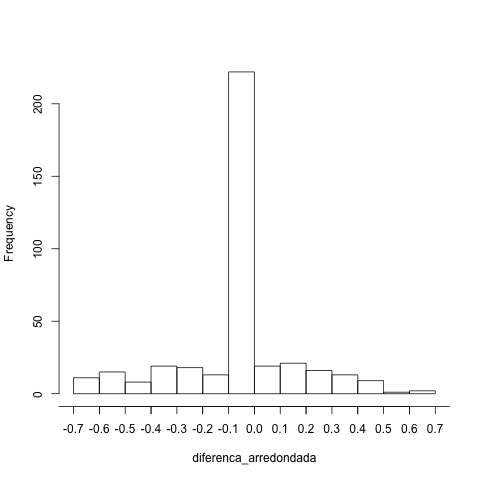
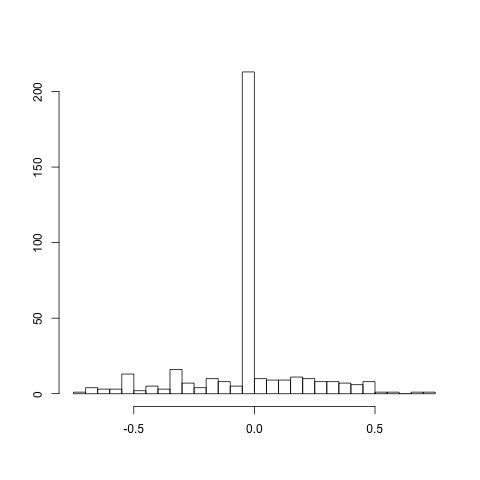
melhorando os graficos, fazendo pular de 0.1 em 0.1

diff --git a/paper/sig-alternate.tex b/paper/sig-alternate.tex
@@ -95,7 +95,7 @@ conclusions and plans for future work.
 \section{Code Coverage}
 \label{sec-code-coverage}
 
-% TODO: tentei mostrar estudos relacionados aqiu, mas acho que poderia ter vendido melhor
+% Gustavo: tentei mostrar estudos relacionados aqiu, mas acho que poderia ter vendido melhor
 Code coverage measures the degree to which production code is tested by a test suite. 
 When a unit test exercises a piece of code, developers say that such piece
 of code is covered. Many studies argue that code coverage is an important
@@ -188,15 +188,17 @@ public double calculateTaxes(double hasIncrement) {
 }
 \end{lstlisting}
 
-% Todo: Why at the class level? 
-As we are interested in code coverage at the class level, 
-we conceived our heuristic as follows (Equation 1): for a certain class $C$ with methods $m_1, ..., m_n$, 
+% Gustavo: gostou da explicacao?
+Code coverage can be calculated on different levels, such as method level, class level, or even
+system level. As this work is part of a full research, in there, we are interested in code coverage at the class level.
+Because of that, we conceived our heuristic as follows (Equation \ref{formula-doida}): 
+for a certain class $C$ with methods $m_1, ..., m_n$, 
 the code coverage of C is the ratio of the number of unit tests in the suite that test a certain method from C and 
 the sum of McCabe's number from each method inside C.
 
-% TODO: Veja se entendi e escrevi certo:
 \begin{equation}
-Coverage(C) = \frac{|\bigcup_{i=1}^{n}UnitTestsFor(m_i)|}{\sum_{i=1}^{n}{CiclomaticComplexity(m_i)}}
+\label{formula-doida}
+Cov(C) = min(1,\frac{\sum_{i=1}^{n}min(UnitTests(m_i), CC(m_i))}{\sum_{i=1}^{n}{CC(m_i)}})
 \end{equation}
 
 Again, suppose that the class \textit{Invoice} has McCabe's number equals to 10, 
@@ -232,7 +234,8 @@ Tubaina & 261 & 372 & 298\\
 \label{tab:projects}
 \end{table}
 
-Once we obtained the code coverage numbers (at the class level) reported by Emma and our tool, we compared them to see how different
+Once we obtained the code coverage numbers (at the class level) reported by Emma and our tool, 
+we compared them to see how different
 they were. We used histograms and descriptive statistics. In the section below, we present the results found.
 
 %%%%%%%%%%%%%%%%%%%%%%%%%%%%%%%%%%%%%%%%%%%%%%%%%%%%%%%%%%%%%%%%%%%%%%%%%%%%%%%%%%%%%%%%%%
